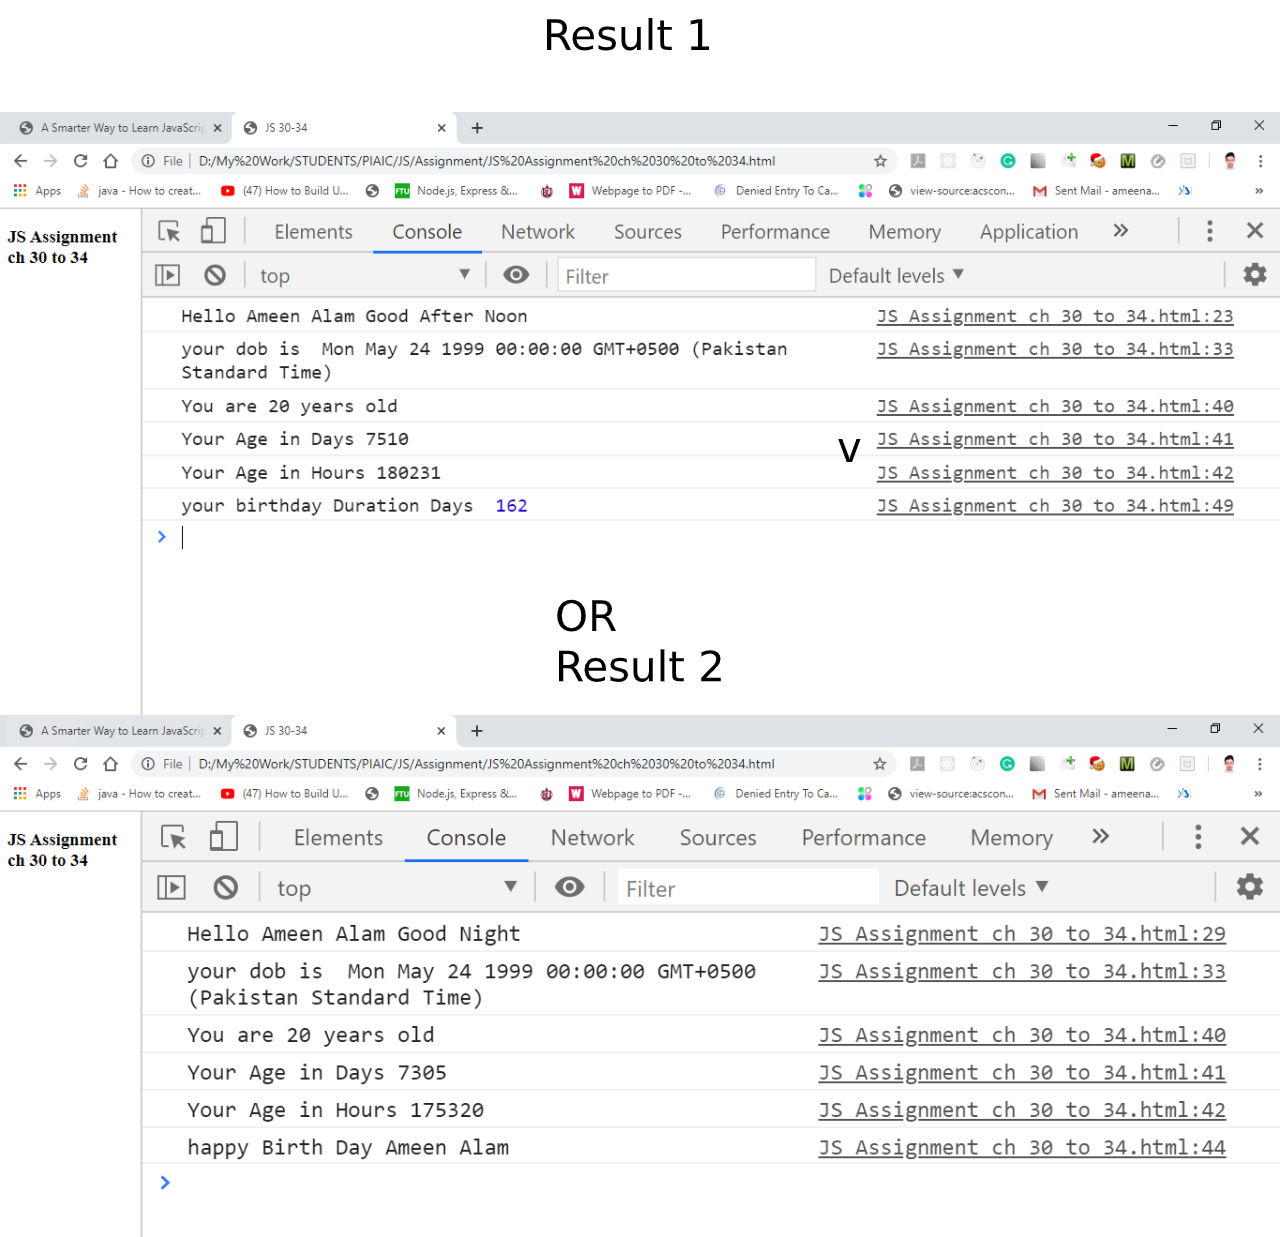
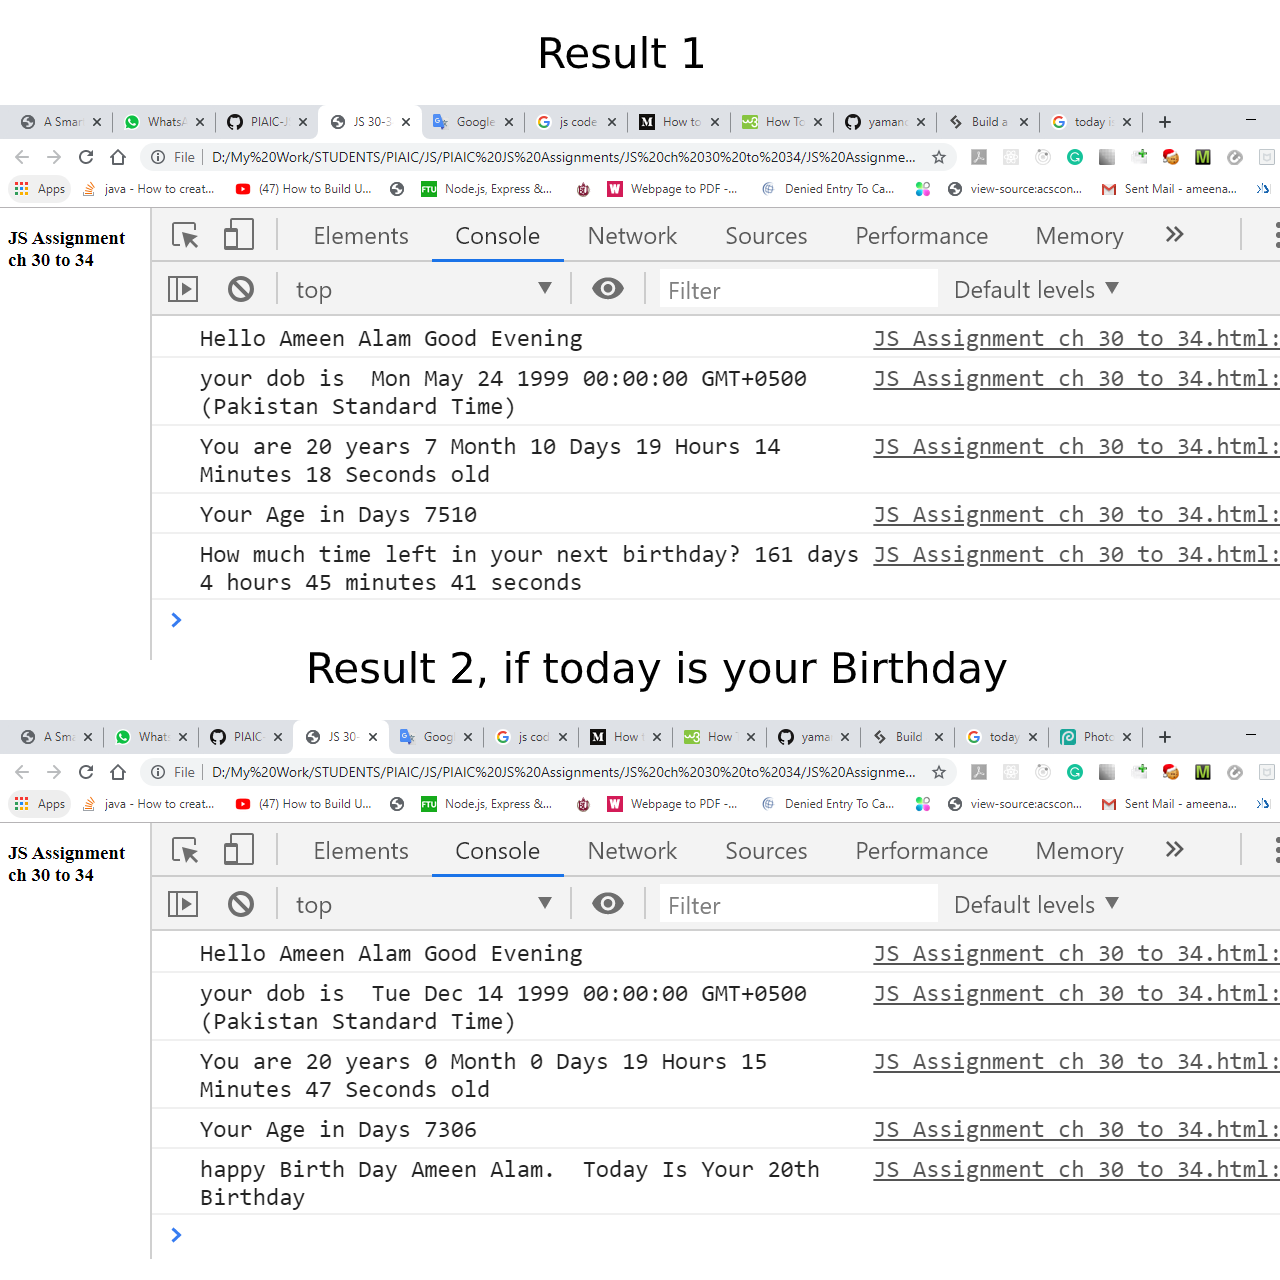
push JS Assignment content ch 30 to 34

diff --git a/JS ch 30 to 34/README.md b/JS ch 30 to 34/README.md
@@ -17,11 +17,11 @@
    ``` "Your DOB is {in pakistan standard time format}" ```
 
 7. print meassage in console.log()
-   ``` "you are 20 year old" ```
-   ``` "Your Age in Days 7305" ```
-   ``` "Your Age in Hours 175320" ```
+   ``` "You are 20 years 7 Month 10 Days 19 Hours 20 Minutes 25 Seconds old" ```
+
+   ``` "Your Age in Days 7510" ```
 
 8. print meassage in console.log()
-   ``` "your birthday Duration Days 162" ```
+   ``` "How much time left in your next birthday? 161 days 4 hours 39 minutes 34 seconds" ```
     or
-   ``` "happy Birth Day Ameen Alam" ```
+   ``` "happy Birth Day Ameen Alam.  Today is Your 20th Birthday" ```
